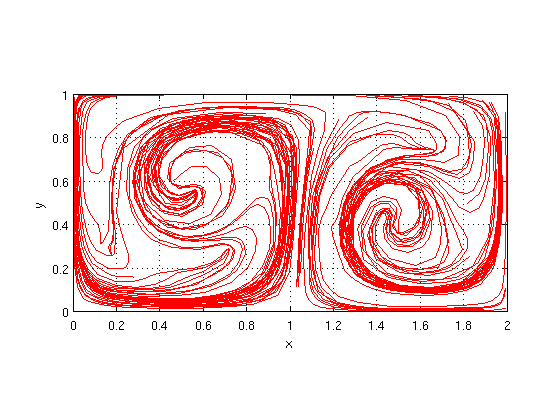
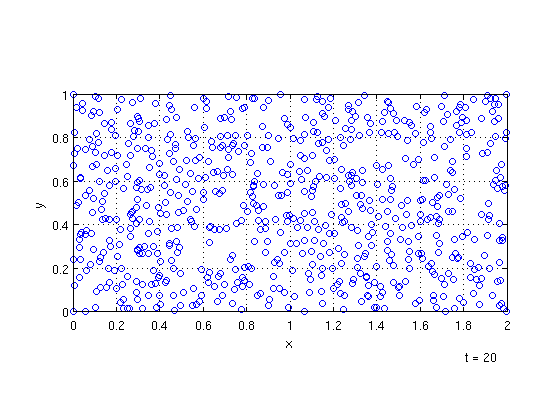
Create flow animation function

Changed region(s): [[0.1214, 0.2167, 0.9107, 0.7429], [0.85, 0.8357, 0.8804, 0.8667]]

diff --git a/html/lcs_user_guide.html b/html/lcs_user_guide.html
@@ -6,7 +6,7 @@
    <!--
 This HTML was auto-generated from MATLAB code.
 To make changes, update the MATLAB code and republish this document.
-      --><title>Lagrangian Coherent Structures Toolbox User Guide</title><meta name="generator" content="MATLAB 7.14"><link rel="schema.DC" href="http://purl.org/dc/elements/1.1/"><meta name="DC.date" content="2012-07-18"><meta name="DC.source" content="lcs_user_guide.m"><style type="text/css">
+      --><title>Lagrangian Coherent Structures Toolbox User Guide</title><meta name="generator" content="MATLAB 7.14"><link rel="schema.DC" href="http://purl.org/dc/elements/1.1/"><meta name="DC.date" content="2012-07-23"><meta name="DC.source" content="lcs_user_guide.m"><style type="text/css">
 html,body,div,span,applet,object,iframe,h1,h2,h3,h4,h5,h6,p,blockquote,pre,a,abbr,acronym,address,big,cite,code,del,dfn,em,font,img,ins,kbd,q,s,samp,small,strike,strong,sub,sup,tt,var,b,u,i,center,dl,dt,dd,ol,ul,li,fieldset,form,label,legend,table,caption,tbody,tfoot,thead,tr,th,td{margin:0;padding:0;border:0;outline:0;font-size:100%;vertical-align:baseline;background:transparent}body{line-height:1}ol,ul{list-style:none}blockquote,q{quotes:none}blockquote:before,blockquote:after,q:before,q:after{content:'';content:none}:focus{outine:0}ins{text-decoration:none}del{text-decoration:line-through}table{border-collapse:collapse;border-spacing:0}
 
 html { min-height:100%; margin-bottom:1px; }
@@ -55,23 +55,47 @@ span.syscmd { color:#B28C00 }
 .footer { width:auto; padding:10px 0px; margin:25px 0px 0px; border-top:1px dotted #878787; font-size:0.8em; line-height:140%; font-style:italic; color:#878787; text-align:left; float:none; }
 .footer p { margin:0px; }
 
-  </style></head><body><div class="content"><h1>Lagrangian Coherent Structures Toolbox User Guide</h1><!--introduction--><!--/introduction--><h2>Contents</h2><div><ul><li><a href="#1">Example 1: Flow animation</a></li><li><a href="#2">Example 2: Hyperbolic barriers</a></li><li><a href="#3">Example 3: Parabolic barriers</a></li><li><a href="#4">Example 4: Elliptic barriers</a></li></ul></div><h2>Example 1: Flow animation<a name="1"></a></h2><h2>Example 2: Hyperbolic barriers<a name="2"></a></h2><pre class="codeinput">addpath(<span class="string">'flow_templates'</span>)
+  </style></head><body><div class="content"><h1>Lagrangian Coherent Structures Toolbox User Guide</h1><!--introduction--><!--/introduction--><h2>Contents</h2><div><ul><li><a href="#1">Flow definition</a></li><li><a href="#2">Example 1: Flow animation</a></li><li><a href="#3">Example 2: Hyperbolic barriers</a></li><li><a href="#4">Example 3: Parabolic barriers</a></li><li><a href="#5">Example 4: Elliptic barriers</a></li></ul></div><h2>Flow definition<a name="1"></a></h2><p>The minimum required to define a flow is...</p><h2>Example 1: Flow animation<a name="2"></a></h2><pre class="codeinput">addpath(<span class="string">'flow_templates'</span>)
+doubleGyre = double_gyre;
+doubleGyre.flow = animate_flow(doubleGyre.flow);
+</pre>
+<img vspace="2" hspace="5" src="lcs_user_guide_01.png" alt="">
+
+<h2>Example 2: Hyperbolic barriers<a name="3"></a></h2>
+<pre class="codeinput">
+addpath(<span class="string">'flow_templates'</span>)
 doubleGyre = double_gyre;
 doubleGyre = strain_lcs_script(doubleGyre);
+</pre><
+pre class="codeoutput"> 
+Warning: Eigenvalue products not 1 
+	minimum = 6.63313e-35
+	maximum = 1.29821e+15
+	mean = 2.12195e+12
+	median = 0.000103514
+Number of strainline segments: 50
+Number of LCS segments: 50
 </pre>
-<img vspace="5" hspace="5" src="lcs_user_guide_01.png" alt="">
+<img vspace="2" hspace="5" src="lcs_user_guide_02.png" alt="">
 
-<h2>Example 3: Parabolic barriers<a name="3"></a></h2>
+<h2>Example 3: Parabolic barriers<a name="4"></a></h2>
 
-<h2>Example 4: Elliptic barriers<a name="4"></a></h2>
+<h2>Example 4: Elliptic barriers<a name="5"></a></h2>
 
 <p class="footer"><br>
       Published with MATLAB&reg; 7.14<br></p></div><!--
 ##### SOURCE BEGIN #####
 %% Lagrangian Coherent Structures Toolbox User Guide
 %
+
+%% Flow definition
+% The minimum required to define a flow is...
+
 %% Example 1: Flow animation
 %
+addpath('flow_templates')
+doubleGyre = double_gyre;
+doubleGyre.flow = animate_flow(doubleGyre.flow);
 
 %% Example 2: Hyperbolic barriers
 %

diff --git a/animate_flow.m b/animate_flow.m
@@ -1,0 +1,62 @@
+function flow = animate_flow(flow,verbose)
+
+if nargin < 2
+    verbose.progress = true;
+end
+
+if ~isfield(flow,'solution')
+    
+    if verbose.progress
+        cpb = ConsoleProgressBar;
+        cpb.setText(mfilename)
+        cpb.setTextPosition('left')
+        cpb.setElapsedTimeVisible(1);
+        cpb.setRemainedTimeVisible(1);
+        cpb.setLength(20)
+        cpb.start
+    end
+
+    initialPosition = initial_position(flow.domain,flow.resolution);
+    flow.solution = integrate_flow2(flow,initialPosition);
+    
+    if verbose.progress
+        cpb.setValue(cpb.maximum)
+        cpb.stop
+        fprintf('\n')
+    end
+
+end
+
+mainAxes = setup_figure(flow);
+
+position = arrayfun(@(iSolution)deval(iSolution,flow.timespan(1)),...
+    flow.solution,'UniformOutput',false);
+position = cell2mat(position);
+p1 = plot(mainAxes,position(1,:),position(2,:),'o');
+
+t1 = text(0,0,['t = ',num2str(flow.timespan(1))]);
+set(t1,'Parent',mainAxes,...
+    'units','normalized',...
+    'position',[.9 -.2 0],...
+    'Tag','timeText')
+drawnow
+tic
+
+framesPerSecond = 10;
+timesteps = linspace(flow.timespan(1),flow.timespan(2),...
+    diff(flow.timespan)*framesPerSecond+1);
+
+for idx = 2:length(timesteps)
+    position = arrayfun(@(iSolution)deval(iSolution,timesteps(idx)),...
+        flow.solution,'UniformOutput',false);
+    position = cell2mat(position);
+    set(p1,'xData',position(1,:),'yData',position(2,:))
+    set(t1,'string',['t = ',num2str(timesteps(idx))])
+    drawnow
+    delay = 1/framesPerSecond - toc;
+    if delay < 0
+        warning('animate_flow:negative_delay','Frame rate too high')
+    end
+    pause(delay)
+    tic
+end

diff --git a/integrate_flow2.m b/integrate_flow2.m
@@ -1,0 +1,22 @@
+function flowSolution = integrate_flow2(flow,initialPosition)
+
+initialPosition = to_coupled(initialPosition);
+
+if ~isfield(flow,'odeSolver')
+    flow.odeSolver = @ode45;
+end
+
+flowSolution = ode_ic_array(flow.odeSolver,flow.derivative,flow.timespan,...
+    initialPosition);
+
+function sol = ode_ic_array(odeSolver,odefun,tspan,y0Array,options)
+
+if nargin < 5
+  options = [];
+end
+
+nTrajectories = size(y0Array,1)/2;
+
+sol = arrayfun(@(idx)...
+    feval(odeSolver,odefun,tspan,y0Array([idx,nTrajectories+idx]),...
+    options),1:nTrajectories);

diff --git a/set_flow_resolution.m b/set_flow_resolution.m
@@ -9,7 +9,7 @@ validateattributes(resolution,{'uint64'},{'size',[1 2],'positive'})
 flow.resolution = resolution;
 
 fieldsToDelete = {'cgEigenvalue','cgEigenvector','cgStrain',...
-    'finalPosition'};
+    'finalPosition','solution'};
 
 for iField = 1:length(fieldsToDelete)
     if isfield(flow,fieldsToDelete{iField})

diff --git a/lcs_user_guide.m b/lcs_user_guide.m
@@ -6,6 +6,9 @@
 
 %% Example 1: Flow animation
 %
+addpath('flow_templates')
+doubleGyre = double_gyre;
+doubleGyre.flow = animate_flow(doubleGyre.flow);
 
 %% Example 2: Hyperbolic barriers
 %
